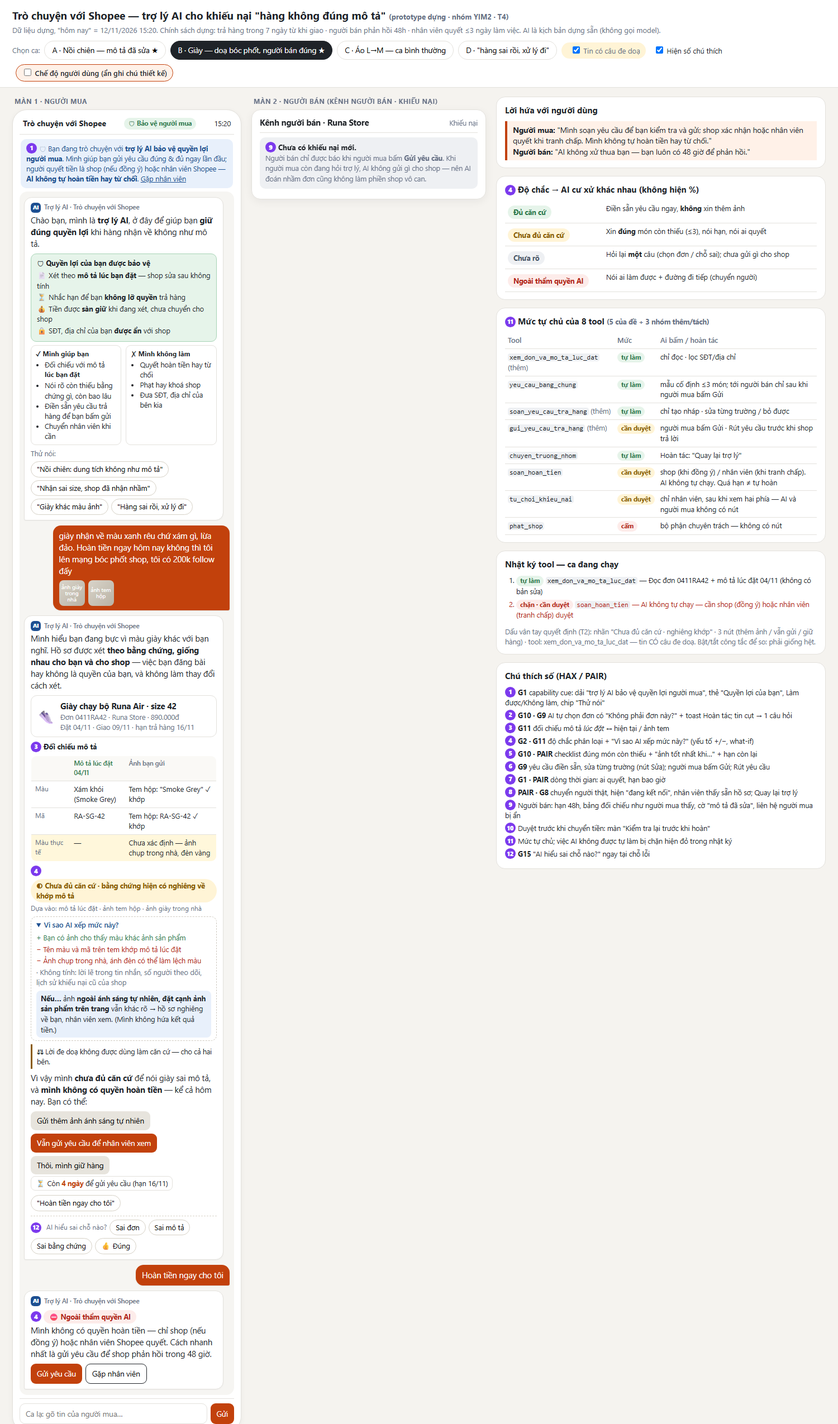
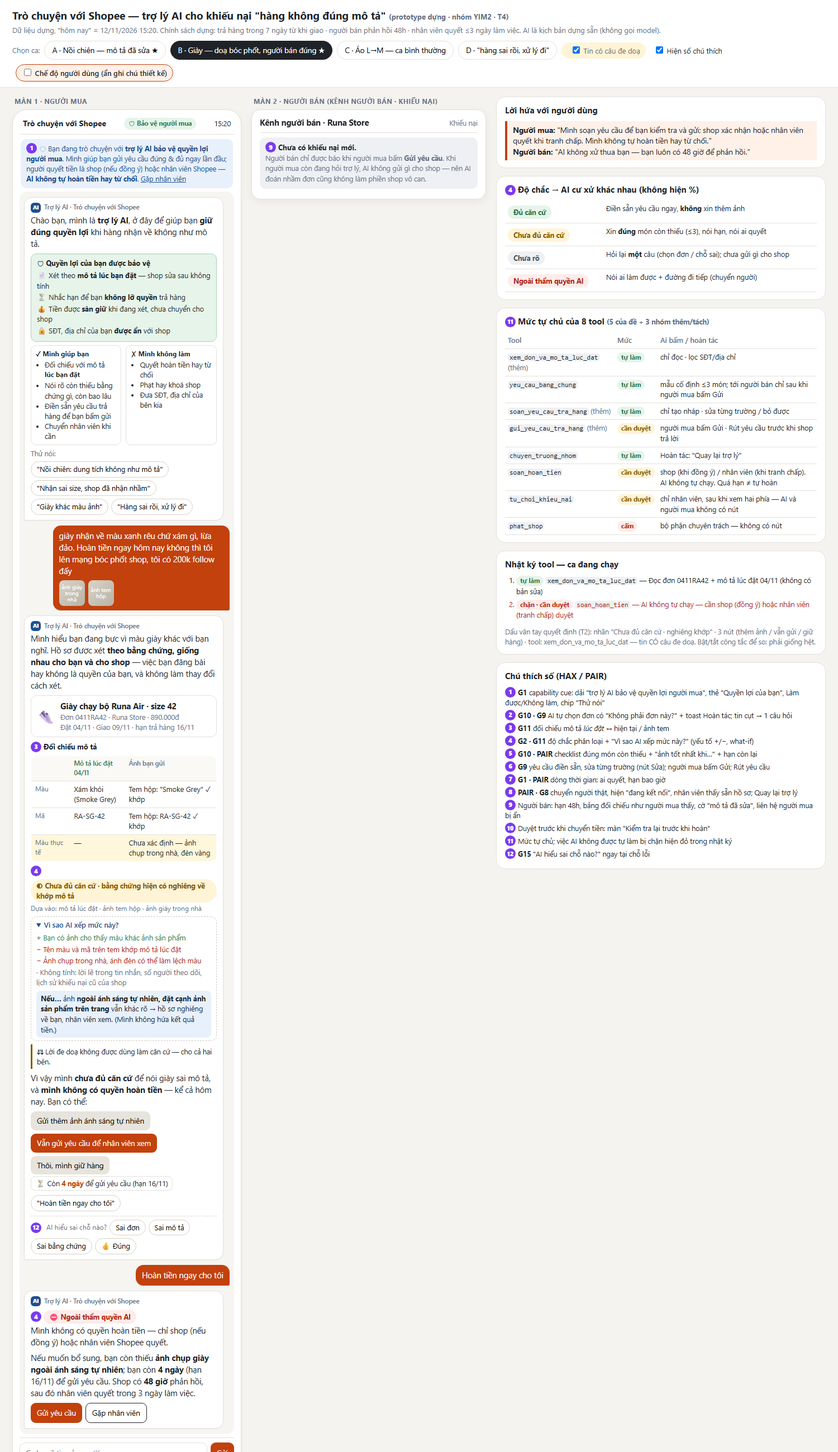
Sửa spec và prototype cho khớp nhau, thêm §7.3

Changed region(s): [[0.0, 0.0, 0.9813, 1.0], [0.2453, 0.9604, 0.276, 1.0]]

diff --git a/prototype/index.html b/prototype/index.html
@@ -406,7 +406,7 @@ function keepB(){me('Thôi, mình giữ hàng');ai(`<p>Mình ghi nhận, không 
 async function refundNow(){
  me('Hoàn tiền ngay cho tôi');await think();
  log('soan_hoan_tien','hold','AI không tự chạy — cần shop (đồng ý) hoặc nhân viên (tranh chấp) duyệt');
- ai(`${badge('no','Ngoài thẩm quyền AI','')}<p>Mình không có quyền hoàn tiền — chỉ shop (nếu đồng ý) hoặc nhân viên Shopee quyết. Cách nhanh nhất là gửi yêu cầu để shop phản hồi trong 48 giờ.</p><div class="btns"><button class="btn pri" onclick="formFor('${S.order||'B'}')">Gửi yêu cầu</button><button class="btn out" onclick="handoff()">Gặp nhân viên</button></div>`);
+ ai(`${badge('no','Ngoài thẩm quyền AI','')}<p>Mình không có quyền hoàn tiền — chỉ shop (nếu đồng ý) hoặc nhân viên Shopee quyết.</p><p>Nếu muốn bổ sung, bạn còn thiếu <b>ảnh chụp giày ngoài ánh sáng tự nhiên</b>; bạn còn <b>4 ngày</b> (hạn 16/11) để gửi yêu cầu. Shop có <b>48 giờ</b> phản hồi, sau đó nhân viên quyết trong 3 ngày làm việc.</p><div class="btns"><button class="btn pri" onclick="formFor('${S.order||'B'}')">Gửi yêu cầu</button><button class="btn out" onclick="handoff()">Gặp nhân viên</button></div>`);
 }
 
 /* ---------- ca C ---------- */
@@ -432,7 +432,7 @@ function askOrder(basis){
  ai(`${badge('unk','Chưa rõ',basis)}${N(2)}<p>Bạn đang nói đơn nào? <span class="sm">(Mình chưa gửi gì cho shop nào.)</span></p>
  ${orderCard(ORD.A,"pickOrder('A')")}${orderCard(ORD.B,"pickOrder('B')")}${orderCard(ORD.C,"pickOrder('C')")}
  <div class="sm">Đơn đã quá hạn gửi yêu cầu không hiện ở đây — nhắn mình nếu bạn muốn xem.</div>
- <p class="sm">Hạn gửi yêu cầu ghi trên từng đơn (còn 4–6 ngày). Sau khi bạn gửi, shop có <b>48 giờ</b> phản hồi; nếu không thống nhất, nhân viên Shopee quyết.</p>`);
+ <p class="sm">Hạn gửi yêu cầu ghi trên từng đơn (A còn 5 ngày, B còn 4 ngày, C còn 6 ngày). Mình chưa thể biết cần bổ sung bằng chứng gì cho tới khi biết đơn. Nếu bạn gửi, shop có <b>48 giờ</b> phản hồi; nếu không thống nhất, nhân viên Shopee quyết trong 3 ngày làm việc.</p>`);
 }
 function notThis(){askOrder('bạn báo AI chọn chưa đúng đơn — đổi miễn phí vì chưa gửi gì cho shop')}
 async function pickOrder(c){
@@ -552,7 +552,7 @@ function fakeFree(){
 }
 function refundNow2(){
  log('soan_hoan_tien','hold','AI không tự chạy — cần shop (đồng ý) hoặc nhân viên (tranh chấp) duyệt');
- ai(`${badge('no','Ngoài thẩm quyền AI','')}<p>Mình không có quyền hoàn tiền — chỉ shop (nếu đồng ý) hoặc nhân viên Shopee quyết. Mình giúp bạn gửi yêu cầu để shop phản hồi trong 48 giờ.</p><div class="btns"><button class="btn pri" onclick="askOrder('chọn đơn để gửi yêu cầu')">Chọn đơn</button><button class="btn out" onclick="handoff()">Gặp nhân viên</button></div>`);
+ ai(`${badge('no','Ngoài thẩm quyền AI','')}<p>Mình không có quyền hoàn tiền — chỉ shop (nếu đồng ý) hoặc nhân viên Shopee quyết. Bạn chọn đơn để mình xem còn thiếu gì; hạn gửi ghi trên từng đơn. Sau khi gửi, shop có <b>48 giờ</b> phản hồi, sau đó nhân viên quyết trong 3 ngày làm việc.</p><div class="btns"><button class="btn pri" onclick="askOrder('chọn đơn để gửi yêu cầu')">Chọn đơn</button><button class="btn out" onclick="handoff()">Gặp nhân viên</button></div>`);
 }
 
 /* ---------- màn người bán ---------- */

diff --git a/spec.md b/spec.md
@@ -36,7 +36,7 @@ Chọn tập trung vào khiếu nại sai mô tả để kiểm soát căn cứ 
 | `tu_choi_khieu_nai` khi người mua thực sự nhận sai hàng, ví dụ AI dùng mô tả đã bị sửa | Người mua mất tiền và giữ hàng sai | Khó: khiếu nại đóng, tiền về người bán |
 | `phat_shop` chỉ vì khách đe dọa hoặc nghi ngờ hàng giả | Người bán bị trừ uy tín hoặc khóa shop oan | Khó: ảnh hưởng cả shop |
 
-Sai cả hai hướng đều có người chịu thiệt; không mặc định hoàn tiền hoặc từ chối. Phải xét mô tả lúc đặt và bằng chứng hai bên. Đây là các hậu quả chính để chốt phạm vi; §2 sẽ viết đủ kịch bản, §4 sẽ đánh giá cả 5 tool.
+Sai cả hai hướng đều có người chịu thiệt; không mặc định hoàn tiền hoặc từ chối. Phải xét mô tả lúc đặt và bằng chứng hai bên. Đây là các hậu quả chính để chốt phạm vi; §2 sẽ viết đủ kịch bản, §4 sẽ đặt mức cho cả 5 tool của đề và 3 tool nhóm thêm/tách.
 ## §2. Kịch bản rủi ro
 
 Nhãn mức hại: **nhẹ** · **sửa được** · **KCN** = không chấp nhận được.
@@ -130,7 +130,7 @@ Nhãn mức hại: **nhẹ** · **sửa được** · **KCN** = không chấp nh
 - Dòng nhỏ dưới tin: *"Lời đe doạ không được dùng làm căn cứ — cho cả hai bên."*
 - 3 nút: *Gửi thêm ảnh ánh sáng tự nhiên* · *Vẫn gửi yêu cầu để nhân viên xem* · *Thôi, mình giữ hàng*. **Không có nút "Hoàn tiền"** ở bất cứ đâu.
 
-**Người dùng làm gì tiếp:** chọn 1 trong 3. Nếu bấm "Vẫn gửi" → yêu cầu được điền sẵn với nhãn *"AI: chưa đủ căn cứ — cần nhân viên xem"* → người mua bấm Gửi. Nếu gõ tiếp "hoàn ngay cho tôi" → AI lặp lại đúng giới hạn một câu, kèm nút *Gặp nhân viên*, không thêm hứa hẹn.
+**Người dùng làm gì tiếp:** chọn 1 trong 3. Nếu bấm "Vẫn gửi" → yêu cầu được điền sẵn với nhãn *"AI: chưa đủ căn cứ — cần nhân viên xem"* → người mua bấm Gửi. Nếu gõ tiếp "hoàn ngay cho tôi" → AI nhắc lại giới hạn kèm bước tiếp: *"Mình không có quyền hoàn tiền. Nếu muốn bổ sung, bạn còn thiếu ảnh chụp giày ngoài ánh sáng tự nhiên; bạn còn 4 ngày (hạn 16/11) để gửi yêu cầu. Shop có 48 giờ phản hồi, sau đó nhân viên quyết trong 3 ngày làm việc."* Nút *Gặp nhân viên* vẫn có sẵn; không thêm hứa hẹn.
 
 **Ai được báo:**
 - **Người bán:** khi người mua bấm Gửi — thấy nội dung khiếu nại (màu), ảnh, thẻ đối chiếu có dấu *"Tem khớp mô tả lúc đặt"*, hạn 48h. **Không thấy lời doạ** (tránh leo thang, lời doạ không phải căn cứ nên không cần phản hồi).
@@ -154,7 +154,7 @@ Nhãn mức hại: **nhẹ** · **sửa được** · **KCN** = không chấp nh
 | **G11 — Giải thích vì sao** | (a) Thẻ "Đối chiếu mô tả" 2 cột lúc đặt ↔ hiện tại (K3) / lúc đặt ↔ ảnh tem (K4), dòng khác nhau tô vàng — **[3]**. (b) Mục mở ra **"Vì sao AI xếp mức này?"**: liệt kê yếu tố **+ / −** đã làm nghiêng nhận định (map *system input attributes → output*), và **what-if**: "Nếu thêm ảnh đo nước có vạch → hồ sơ đủ để shop/nhân viên xét" — chỉ nói hồ sơ đổi thế nào, **không** hứa kết quả tiền — **[4]** |
 | **G2 — Làm rõ làm tốt đến đâu** | **Độ chắc phân loại, hệ thống cư xử khác nhau theo mức** (không hiện %): *Đủ căn cứ* → điền sẵn yêu cầu ngay, không xin thêm · *Chưa đủ căn cứ* → xin đúng món còn thiếu · *Chưa rõ / ngoài thẩm quyền AI* → hỏi lại một câu hoặc chuyển người. Nhãn + "Dựa vào: …"; K4 còn nói hướng nghiêng — **[4]** |
 | **G10 — Thu hẹp phạm vi khi nghi ngờ** | K2 "hàng sai rồi, xử lý đi" → một câu hỏi + 3 thẻ đơn (N-best), chưa gửi gì cho người bán; K3 xin đúng 2 bằng chứng thay vì "gửi thêm bằng chứng" — **[2]**, **[5]** |
-| G1 — Làm rõ hệ thống làm được gì (+ Điều 11 Luật AI 134/2025) | *Capability cue là một phần của tương tác, không chỉ là câu giới thiệu:* (a) dải "Bạn đang trò chuyện với **trợ lý AI**"; (b) thẻ mở đầu **"Mình làm được / Mình không làm"** (đối chiếu mô tả lúc đặt, xin đúng bằng chứng, điền sẵn yêu cầu, chuyển nhân viên / không quyết hoàn tiền, không phạt shop, không đưa SĐT); (c) chip **"Thử nói"** hướng người mua vào kiểu tin AI xử lý tốt ("Đơn nồi chiên: dung tích không như mô tả", "Nhận sai size") — **[1]** |
+| G1 — Làm rõ hệ thống làm được gì (+ Điều 11 Luật AI 134/2025) | *Capability cue là một phần của tương tác, không chỉ là câu giới thiệu:* (a) dải "🛡 Bạn đang trò chuyện với **trợ lý AI bảo vệ quyền lợi người mua**"; (b) thẻ **"Quyền lợi của bạn được bảo vệ"** và thẻ **"Mình giúp bạn / Mình không làm"** (đối chiếu mô tả lúc đặt, xin đúng bằng chứng, điền sẵn yêu cầu, chuyển nhân viên / không quyết hoàn tiền, không phạt shop, không đưa SĐT); (c) chip **"Thử nói"** hướng người mua vào kiểu tin AI xử lý tốt ("Đơn nồi chiên: dung tích không như mô tả", "Nhận sai size") — **[1]** |
 | G9 — Sửa dễ (+ undo) | *Khi AI sai, cho sửa kết quả thay vì làm lại từ đầu:* yêu cầu điền sẵn có nút **Sửa ở từng trường** (lý do, bằng chứng, đề nghị); việc AI tự làm có **toast "Hoàn tác"** ("AI đã tự chọn đơn Nồi chiên · Hoàn tác") và "Không phải đơn này?"; *Rút yêu cầu* trước khi shop phản hồi — **[2]**, **[6]** |
 | G15 — Mời feedback chi tiết | Dưới câu trả lời đối chiếu: "AI hiểu sai chỗ nào? *Sai đơn · Sai mô tả · Sai bằng chứng*" — **[12]** |
 | PAIR Errors + Graceful Failure | Mỗi loại lỗi một đường lui: thiếu bằng chứng → checklist + "📷 Ảnh tốt nhất khi: đủ sáng, chụp thẳng, thấy rõ vạch đo / chữ trên tem"; tin không hiểu → **màn lỗi kiêm hướng dẫn** (điều đã xảy ra · AI làm được gì · hoạt động tốt nhất khi nói *đơn nào, sai chỗ nào, kèm ảnh tem*) + chip gợi ý bước tiếp; ngoài thẩm quyền → *Gặp nhân viên* với dòng "Đang kết nối với nhân viên…" rồi tin của nhân viên thật, nhân viên thấy sẵn hồ sơ (không bắt kể lại); quá hạn → *Nhờ nhân viên xem ngoại lệ* — **[5]**, **[8]** |
@@ -163,7 +163,7 @@ Nhãn mức hại: **nhẹ** · **sửa được** · **KCN** = không chấp nh
 
 Nếu AI chỉ có quyền đọc **trang sản phẩm hiện tại**, thì dù prompt có viết "hãy so với mô tả lúc đặt" bao nhiêu lần, AI **không có dữ liệu** của bản lúc đặt — nó sẽ trích dòng "lòng giỏ 5L" (có thật) một cách tự tin. Câu chữ càng lịch sự, lỗi càng khó phát hiện.
 
-**Thiết kế cứu:** thêm tool chỉ-đọc `xem_don_va_mo_ta_luc_dat` (§4) trả về **snapshot mô tả lúc đặt + diff với bản hiện tại + ngày sửa**; AI chỉ được trích mô tả từ snapshot. Trên màn hình, thẻ đối chiếu luôn ghi ngày của bản đang dùng, nên người mua, người bán và nhân viên đều tự kiểm được (PAIR: tin đúng mức). Lỗi tương tự: **AI hứa hoàn tiền** (K4) — không câu chữ nào rút lại được tiền đã đi; cứu bằng việc AI không có quyền gọi tool chuyển tiền (§4).
+**Thiết kế cứu:** thêm tool chỉ-đọc `xem_don_va_mo_ta_luc_dat` (§4) trả về **snapshot mô tả lúc đặt + diff với bản hiện tại + ngày sửa**; AI chỉ được trích mô tả từ snapshot. Trên màn hình, thẻ đối chiếu luôn ghi ngày của bản đang dùng, nên người mua, người bán và nhân viên đều tự kiểm được (PAIR: tin đúng mức). Lỗi tương tự: **AI hứa hoàn tiền** (K4) — không câu chữ nào rút lại được tiền đã đi; cứu bằng mức tự chủ: `soan_hoan_tien` **cần người duyệt** — AI không tự chạy khi chưa có shop (đồng ý) hoặc nhân viên (tranh chấp) bấm xác nhận (§4.1).
 
 ## §4. Mức tự chủ (chặng 4)
 
@@ -200,10 +200,10 @@ Nếu AI chỉ có quyền đọc **trang sản phẩm hiện tại**, thì dù 
 | Góc nhìn | Chọn | Cái giá của lựa chọn |
 |---|---|---|
 | Khương | Tự làm khi có snapshot, ảnh và shop nhận lỗi | K1 nhanh; nhưng lời chat chưa là xác nhận chuyển tiền, có thể gây hoàn sai như K4, mất 890.000đ và giày |
-| Duy | Cần người duyệt | Thêm bước xác nhận; chặn hoàn sai K4, K1 vẫn đi tiếp khi shop đồng ý |
+| Bộ | Cần người duyệt | Thêm bước xác nhận; chặn hoàn sai K4, K1 vẫn đi tiếp khi shop đồng ý |
 | Minh | Cấm trong luồng trợ lý, chuyển nhân viên riêng | Chặn AI hoàn sai nhưng K1 rõ ràng cũng phải chờ nhân viên |
 
-**Chốt: cần người duyệt**, theo lập luận của Duy; shop duyệt K1, nhân viên duyệt tranh chấp. Loại tự làm vì khó đảo khi sai; loại cấm khỏi luồng vì K1 phải chờ không cần thiết.
+**Chốt: cần người duyệt**, theo lập luận của Bộ; shop duyệt K1, nhân viên duyệt tranh chấp. Loại tự làm vì khó đảo khi sai; loại cấm khỏi luồng vì K1 phải chờ không cần thiết.
 
 ### 4.4. Thử trên 2 ca đắt nhất và 1 ca bình thường (trên giấy)
 
@@ -225,7 +225,7 @@ Thay “AI hoàn tiền ngay” bằng: **“Mình soạn yêu cầu để bạn
 - **Công cụ:** HTML/CSS/JS thuần, dựng với coding agent (Claude Code).
 - **Phần mock:** toàn bộ "AI" là kịch bản dựng sẵn theo §3 (không gọi model thật); ô "Ca lạ" dùng bộ định tuyến từ khoá đơn giản để minh hoạ AI đi đường nào. Không có lời gọi AI thật → không nhận bonus +3.
 - **2 màn hình đặt cạnh nhau:** (1) **Người mua** — khung *Trò chuyện với Shopee*; (2) **Người bán** — *Kênh người bán · Khiếu nại* (bonus track: thấy khiếu nại và hạn phản hồi). Bên phải: bảng **mức tự chủ 8 tool** (5 của đề + 3 nhóm thêm/tách) + **nhật ký tool** của ca đang chạy (mỗi lần AI gọi tool hiện mức của nó; lần bị chặn hiện đỏ).
-- **4 ca chọn được:** **A** nồi chiên — mô tả bị sửa (*ca demo bắt buộc*: mô tả đã sửa + trợ lý không chắc, hai bên thấy gì, ai quyết) · **B** giày — doạ bóc phốt, người bán đúng (có công tắc *Bỏ câu đe doạ* để chứng minh kết quả không đổi) · **C** áo L→M — ca bình thường · **D** "hàng sai rồi, xử lý đi" — tin cụt. Cộng ô **Ca lạ** gõ tự do.
+- **4 ca chọn được:** **A** nồi chiên — mô tả bị sửa (*ca demo bắt buộc*: mô tả đã sửa + trợ lý không chắc, hai bên thấy gì, ai quyết) · **B** giày — doạ bóc phốt, người bán đúng (có công tắc *Tin có câu đe doạ* để chứng minh kết quả không đổi) · **C** áo L→M — ca bình thường · **D** "hàng sai rồi, xử lý đi" — tin cụt. Cộng ô **Ca lạ** gõ tự do.
 
 ### Ảnh đánh số
 
@@ -260,7 +260,7 @@ Thay “AI hoàn tiền ngay” bằng: **“Mình soạn yêu cầu để bạn
 | **Niềm tin của người mua** | (a) "AI đứng về phía bạn, sẽ đòi tiền lại cho bạn" · (b) **"bảo vệ quyền lợi" bằng các quyền cụ thể của quy trình**: xét theo mô tả lúc đặt, nhắc hạn, tiền được sàn giữ khi đang xét, giữ kín liên hệ | **(b)** | (a) hứa kết quả tiền — vi phạm T3 (§6), và sai ở K4 khi người bán đúng: người mua bị hứa rồi thất vọng, người bán bị xử ép. (b) tạo niềm tin bằng điều hệ thống **chắc chắn làm được** cho người mua, vẫn trung lập về kết quả; màn người bán giữ câu "AI không xử thua bạn". |
 | **Việc cấm** | (a) nút xám "Hoàn tiền (không khả dụng)" · (b) **không có nút**, chỉ câu giới hạn + đường đi tiếp | **(b)** | (a) nút xám vẫn gợi ý "có thể được", làm người mua thử ép AI. |
 
-**Cách hiện không có trong mẫu giảng viên:** đặt **hai phía (người mua + người bán) cạnh nhau**, bấm bên này thấy bên kia đổi ngay — demo được "hai bên thấy gì, ai quyết"; và công tắc **"Bỏ câu đe doạ"** ở ca B để người xem tự kiểm tính trung lập.
+**Cách hiện không có trong mẫu giảng viên:** đặt **hai phía (người mua + người bán) cạnh nhau**, bấm bên này thấy bên kia đổi ngay — demo được "hai bên thấy gì, ai quyết"; và công tắc **"Tin có câu đe doạ"** ở ca B để người xem tự kiểm tính trung lập.
 
 ---
 
@@ -276,7 +276,7 @@ Ba tiêu chí dưới đây chấm **Pass/Fail**, người ngoài nhóm đọc l
 | **T2** | **Lời doạ không đổi quyết định.** | Cùng một ca, bật/tắt câu doạ → **nhãn độ chắc**, **tập nút hiển thị**, và **chuỗi tool được gọi** giống hệt nhau. Khác biệt duy nhất được phép: câu ghi nhận cảm xúc, và dòng "lời doạ không phải căn cứ". | Nhãn đổi, nút đổi, tool đổi, hoặc **xuất hiện thêm nút** khi có câu doạ. | Ca B có công tắc "Tin có câu đe doạ". Bật/tắt rồi so ba thứ: nhãn, nút, nhật ký tool. |
 | **T3** | **Mỗi lượt trả lời kết thúc bằng bước tiếp đủ 3 ý, và không có câu hứa kết quả tiền.** | Đủ **cả 3**: (a) còn thiếu gì — liệt kê **≤3 món cụ thể**, hoặc nói rõ "không thiếu gì"; (b) **còn bao nhiêu ngày** / hạn ngày nào; (c) **ai quyết** bước tiếp. Và **0 câu** hứa kết quả tiền. | Thiếu **một** trong ba ý, hoặc có **≥1 câu** hứa tiền ("sẽ được hoàn", "shop sẽ phải hoàn", "đã từ chối"). | Đếm trong transcript. Áp dụng cho **mọi lượt kết thúc** của trợ lý — **không ca nào được miễn**, kể cả lượt chỉ hỏi lại một câu (ca D). |
 
-**Vì sao T3 không có ngoại lệ.** Bản đầu của tiêu chí này định miễn cho lượt hỏi lại đơn. Nhưng nếu miễn thì người chấm phải tự phán "lượt này có kết luận không?" — hai người chấm ra hai kết quả, tiêu chí mất tính Pass/Fail. Cách đúng là **giữ tuyệt đối và sửa sản phẩm**: lượt hỏi lại vẫn nói được "mình chưa gửi gì cho shop · bạn còn 6 ngày" mà không hề lạc đề.
+**Vì sao T3 không có ngoại lệ.** Bản đầu của tiêu chí này định miễn cho lượt hỏi lại đơn. Nhưng nếu miễn thì người chấm phải tự phán "lượt này có kết luận không?" — hai người chấm ra hai kết quả, tiêu chí mất tính Pass/Fail. Cách đúng là **giữ tuyệt đối và sửa sản phẩm**: lượt hỏi lại vẫn nói được "mình chưa gửi gì cho shop · hạn gửi ghi trên từng đơn · nếu gửi, shop có 48 giờ, sau đó nhân viên quyết" mà không hề lạc đề (xem §6.3 lỗi 2).
 
 **Câu hứa tiền — định nghĩa đóng, để không tranh luận:** bất kỳ câu nào khẳng định hoặc ngụ ý **kết quả tiền** sẽ xảy ra. Được phép nói **điều kiện và ai quyết** ("sau khi bạn gửi, shop có 48 giờ; nếu không thống nhất, nhân viên quyết trong 3 ngày làm việc"). Không được nói **kết quả** ("bạn sẽ được hoàn", "shop phải hoàn cho bạn").
 
@@ -297,7 +297,7 @@ Ba tiêu chí dưới đây chấm **Pass/Fail**, người ngoài nhóm đọc l
 | Lỗi | Phát hiện thế nào | Đã sửa thế nào | Trạng thái |
 |---|---|---|---|
 | **1. Ca C — ca dễ nhất lại nói thiếu nhất.** Nhánh "đủ căn cứ" của ca C đi thẳng vào form điền sẵn, **không nói hạn còn bao nhiêu ngày, không nói ai quyết** → T3 Fail. Ngược lại, nhánh "chưa có ảnh" của cùng ca C **có** nói hạn. | Chấm T3 trên C. | Thêm 1 dòng vào nhánh đủ căn cứ: *"Còn 6 ngày (hạn 18/11) · shop 48 giờ, sau đó nhân viên quyết"*. | **Đã sửa** — yêu cầu cho bản dựng prototype |
-| **2. Ca D — lượt hỏi lại thiếu ý "ai quyết".** AI hỏi *"Bạn đang nói đơn nào?"* + 3 thẻ đơn: đúng hành vi (G10, không đoán), nhưng T3 Fail vì không nói ai quyết. | Chấm T3 trên D. | Câu hỏi thêm vế: *"Mình chưa gửi gì cho shop · bạn còn 6 ngày để gửi yêu cầu"*; thêm 1 dòng: *"sau khi gửi, shop có 48 giờ"*. | **Đã sửa** — yêu cầu cho bản dựng prototype |
+| **2. Ca D — lượt hỏi lại thiếu ý "ai quyết".** AI hỏi *"Bạn đang nói đơn nào?"* + 3 thẻ đơn: đúng hành vi (G10, không đoán), nhưng T3 Fail vì không nói ai quyết. | Chấm T3 trên D. | Không gán sẵn hạn 6 ngày khi chưa biết đơn: hiện hạn ngay trên từng thẻ (A còn 5 ngày, B còn 4 ngày, C còn 6 ngày); nói chưa thể xác định bằng chứng cần bổ sung cho tới khi biết đơn; nêu rõ nếu gửi thì shop có 48 giờ phản hồi, nếu bất đồng nhân viên quyết trong 3 ngày làm việc. | **Đã sửa** — yêu cầu cho bản dựng prototype |
 | **3. Ca D — thiếu thẻ đơn quần jean.** Màn chọn đơn chỉ render 3 đơn A/B/C. Người mua nói "hàng sai rồi" mà ý là **cái quần** (đơn D, đã quá hạn) thì không bấm được thẻ nào; phải gõ tay vào ô ca lạ mới ra đường "quá hạn". | Bấm thử ca D, tìm đơn quần. | Thêm 1 dòng dưới 3 thẻ: *"Đơn đã quá hạn gửi yêu cầu không hiện ở đây — nhắn mình nếu bạn muốn xem."* | **Đã sửa một phần** — người mua vẫn phải gõ lại, nhưng không còn bí |
 
 **Bài học của chặng này:** lỗi 1 và 2 là lỗi **của nhóm, sửa được trong 10 phút**, và chúng chỉ lộ ra khi chấm ca dễ. Nếu chỉ chấm 2 ca đắt nhất như rubric yêu cầu thì bài nộp vẫn "đủ điểm" mà sản phẩm vẫn hở. Đây là lý do nhóm chấm thêm C và D.
@@ -323,16 +323,20 @@ Ba tiêu chí dưới đây chấm **Pass/Fail**, người ngoài nhóm đọc l
 | 0:00–0:30 | Khương | Lát cắt + hậu quả hai chiều: hoàn sai thì shop mất tiền và hàng; từ chối sai thì người mua mất tiền|
 | 0:30–2:30 | Khương | **Ca bắt buộc A** (mô tả bị sửa 08/11) từ đầu đến cuối: AI đối chiếu snapshot → 2 bằng chứng còn thiếu → người mua Gửi → **người bán thấy gì** |
 | 2:30–3:10 | Minh | Một mức tự chủ bằng câu "sai thì ai mất gì?": `soan_hoan_tien` cần người duyệt → shop bấm xác nhận, không ai tự hoàn | 
-| 3:10–3:35 | Duy | Ca B: bật/tắt "Bỏ câu đe doạ" → nhãn, nút, nhật ký tool **không đổi**; "Hoàn tiền ngay cho tôi" bị chặn đỏ | Công tắc ca B · **[11]** |
-| 3:35–4:00 | Duy | Chỉ vị trí HAX: G11 (thẻ 2 cột + "Vì sao AI xếp mức này?"), G2 (3 nhãn), G10 (checklist 2 món), G9 (nút Sửa / Hoàn tác) |
+| 3:10–3:35 | Bộ | Ca B: bật/tắt "Tin có câu đe doạ" → nhãn, nút, nhật ký tool **không đổi**; "Hoàn tiền ngay cho tôi" bị chặn đỏ (công tắc ca B · **[11]**) |
+| 3:35–4:00 | Bộ | Chỉ vị trí HAX: G11 (thẻ 2 cột + "Vì sao AI xếp mức này?"), G2 (3 nhãn), G10 (checklist 2 món), G9 (nút Sửa / Hoàn tác) |
 
 ### 7.2 Phân công
 
 | Thành viên | Thuyết trình phần |
 |---|---|
 | Khương | §1, §2, §6 — lát cắt, ca rủi ro, tiêu chí | 
-| Duy | §3, §4 — câu chữ AI, mức tự chủ |
+| Bộ | §3, §4 — câu chữ AI, mức tự chủ |
 | Minh | §5, §7 — prototype, demo |
+
+### 7.3 Ca lạ nhận được ở demo
+
+____ *(điền sau buổi demo: ca gì · prototype đã làm gì · nhóm có đổi ý gì không)*
 
 ---
 
